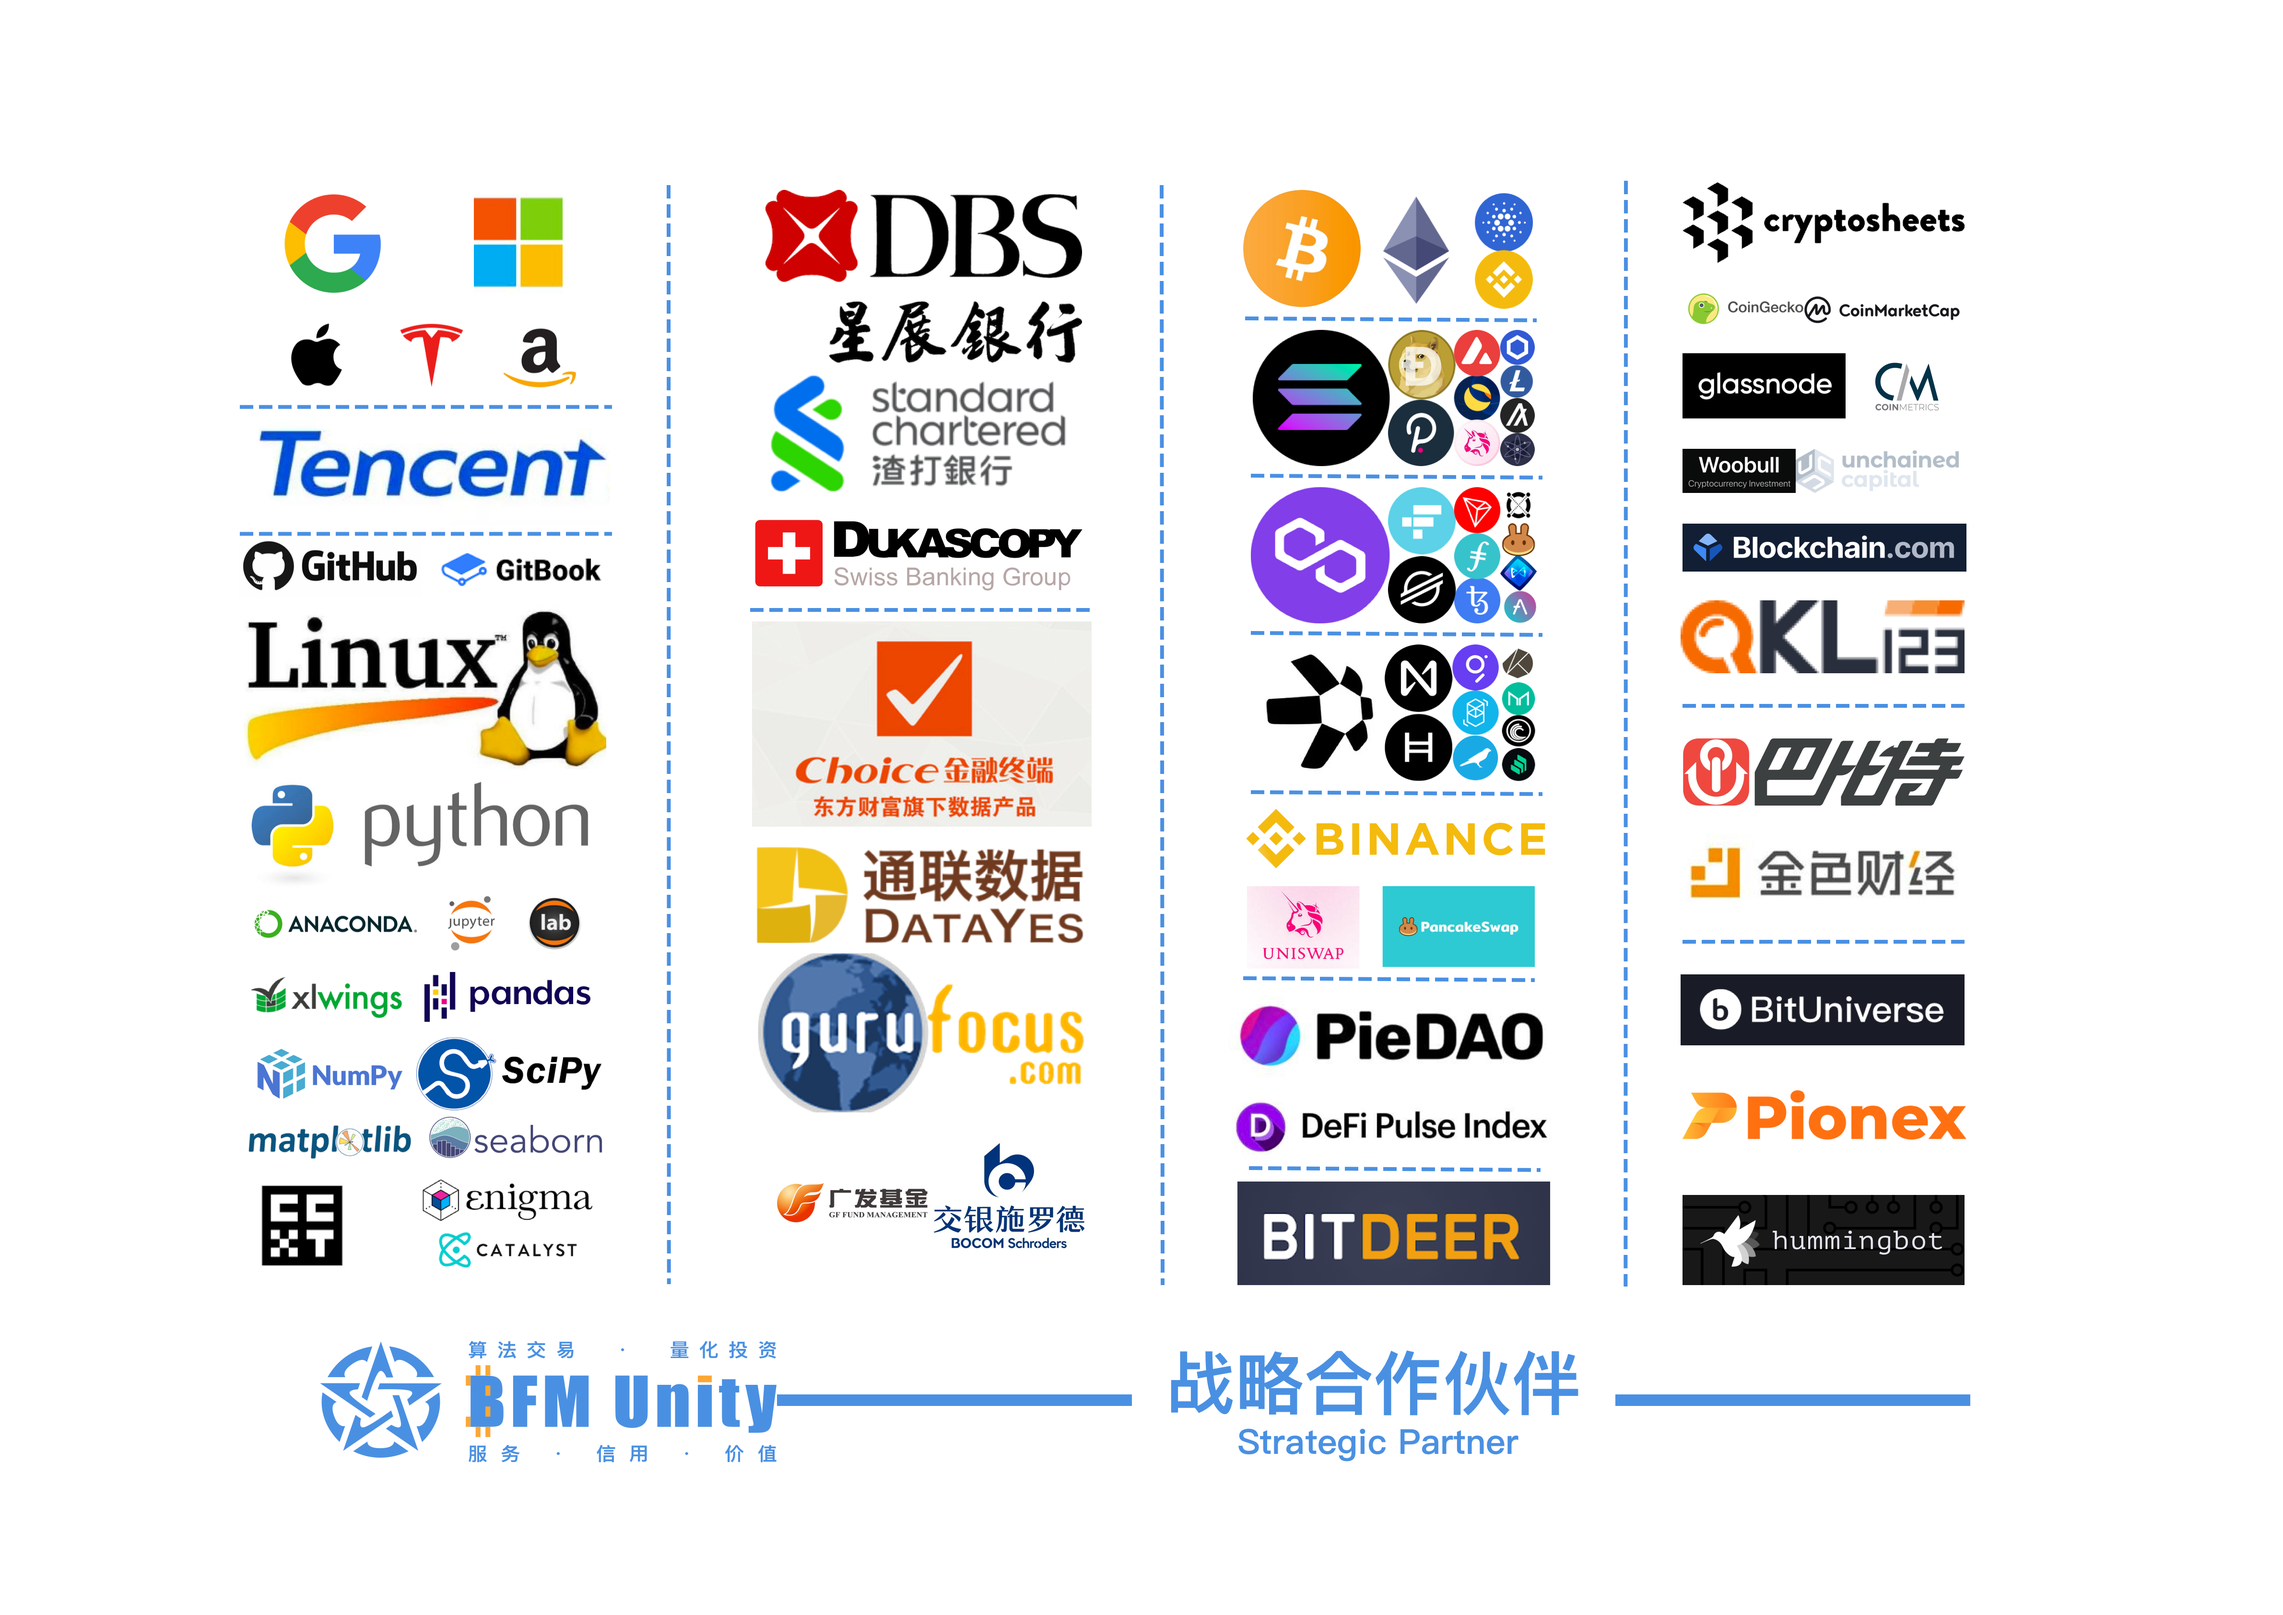
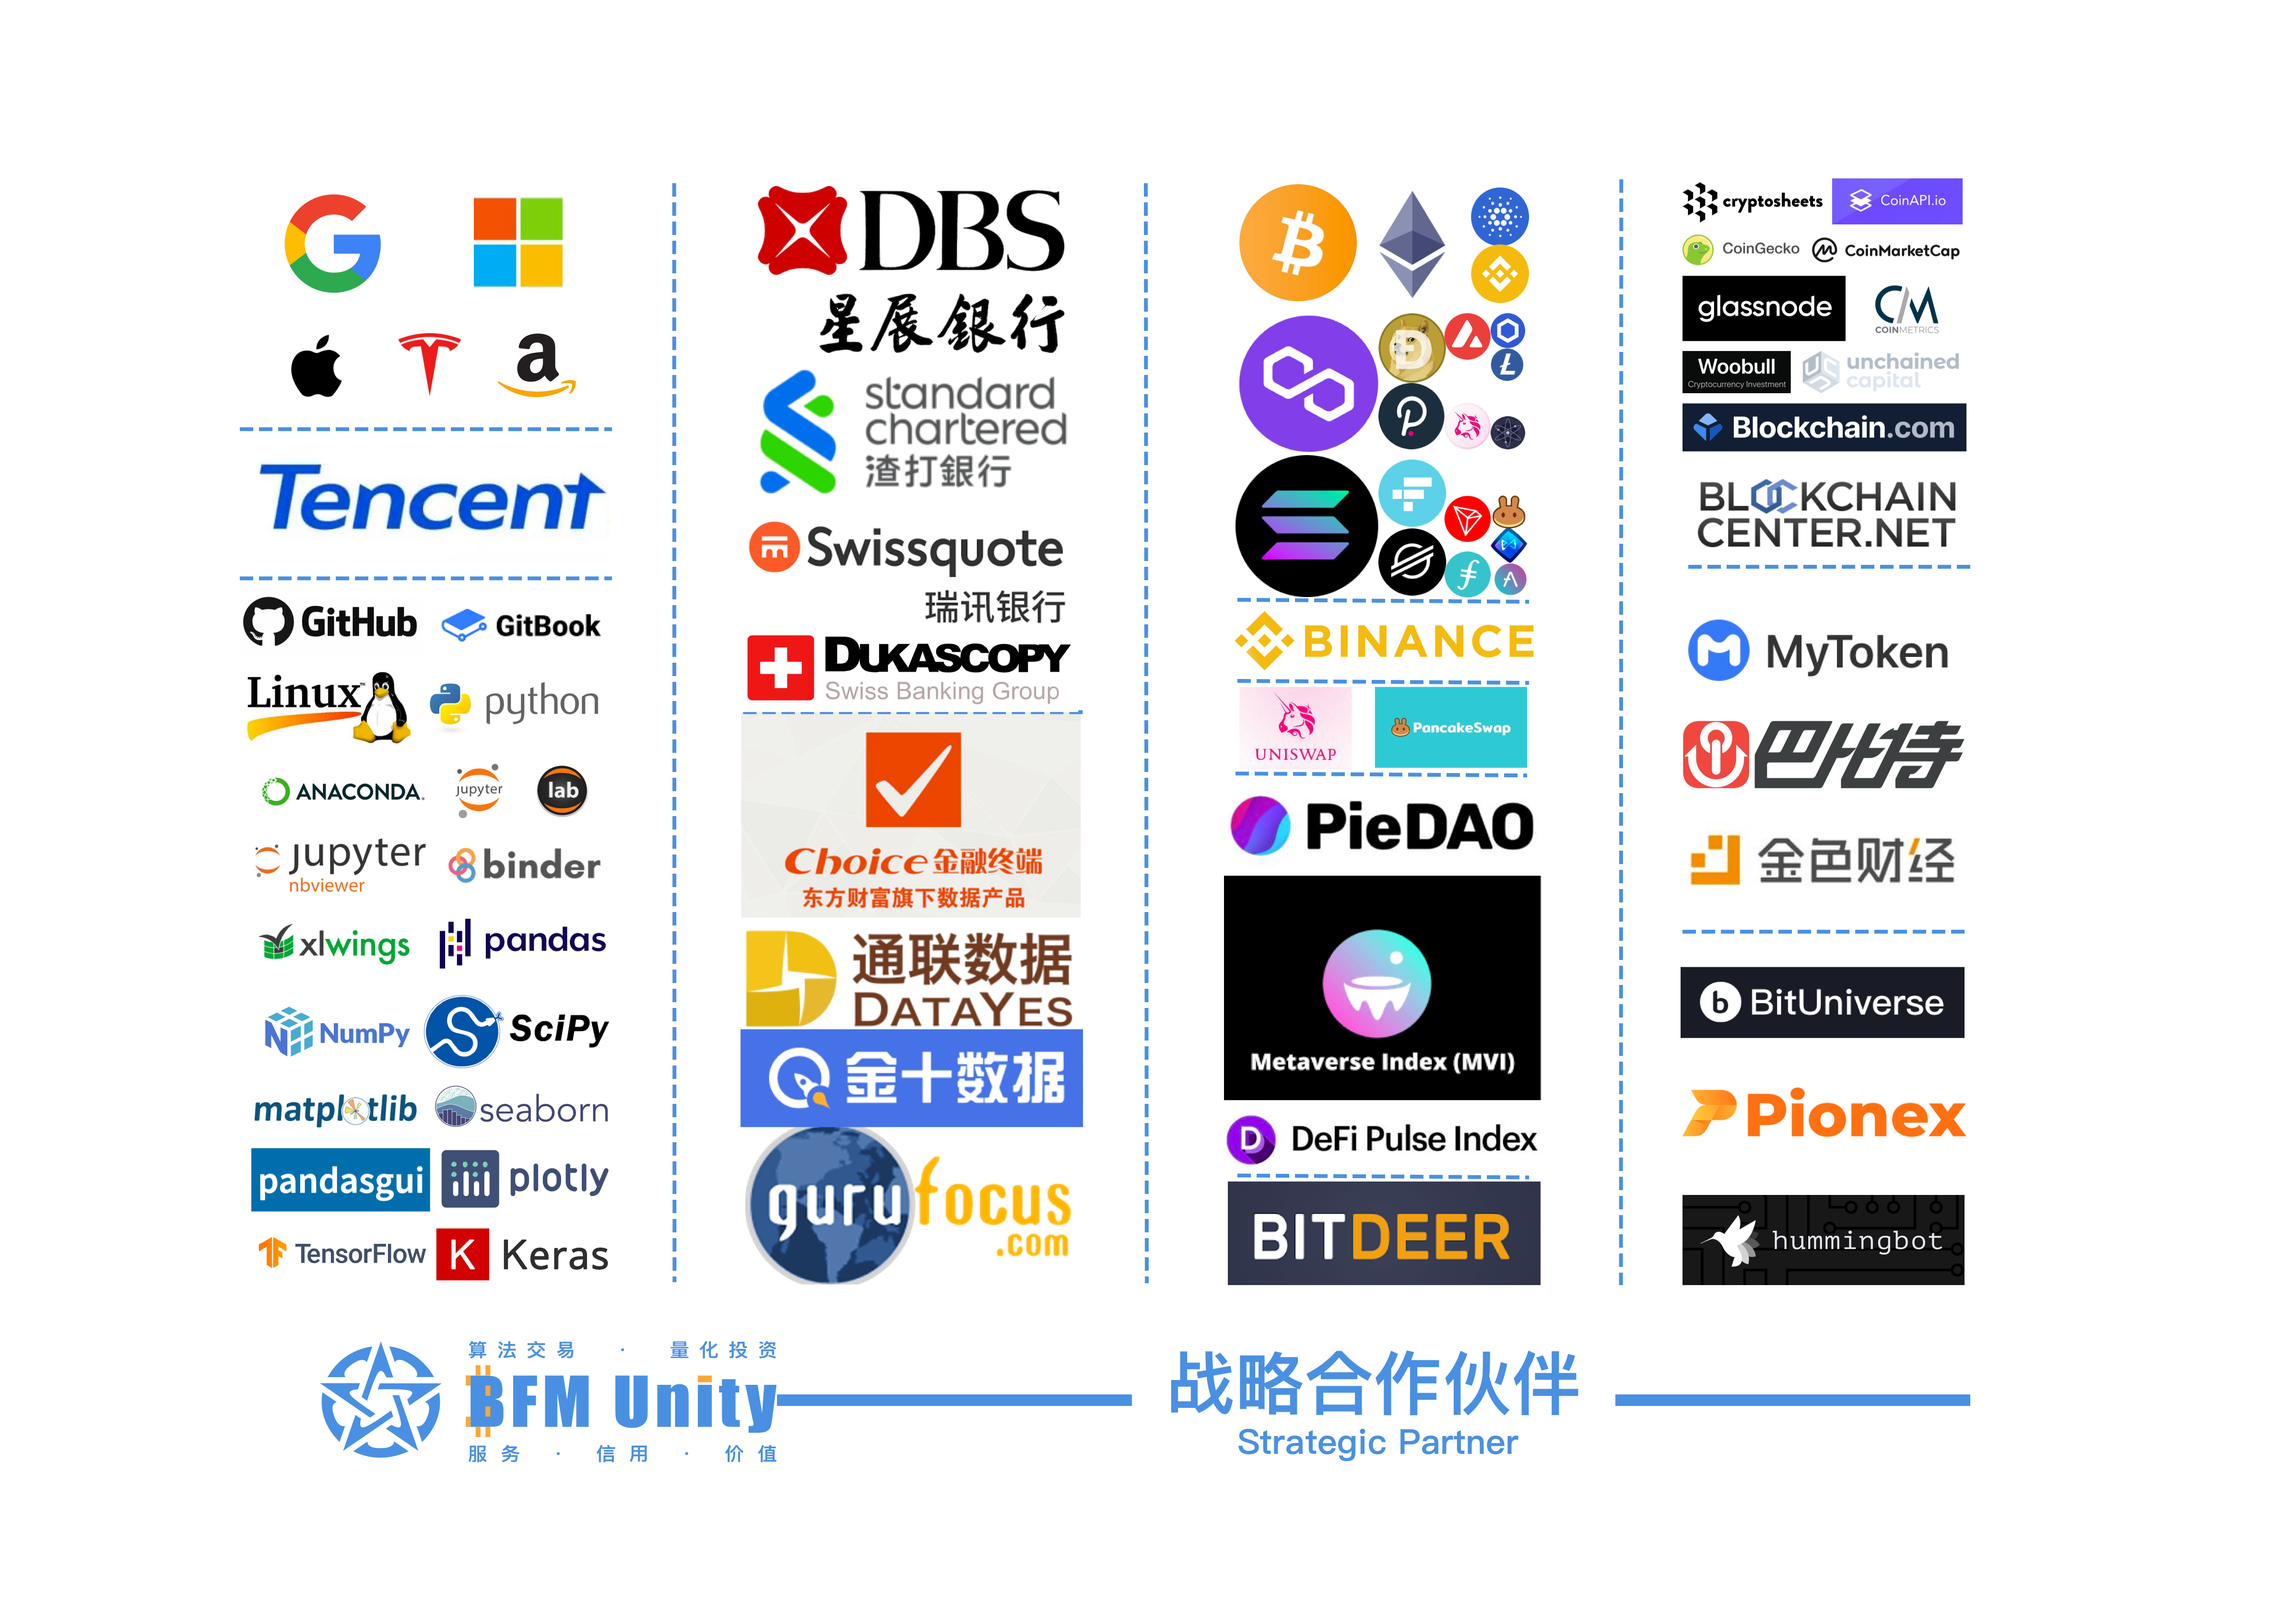
GitBook: [#3665] No subject

diff --git a/bfm-unity-bi-fang-meng-lian-he-ti/lv0-zhu-jian-qiao-yin-dao.md b/bfm-unity-bi-fang-meng-lian-he-ti/lv0-zhu-jian-qiao-yin-dao.md
@@ -100,6 +100,8 @@ NOTE: **This project is in beta. Use at your own risk.**
 
 ## 我们的经合关系 <a href="#zhan-lve-he-zuo-huo-ban" id="zhan-lve-he-zuo-huo-ban"></a>
 
+![](<../.gitbook/assets/BFM Unity 战略合作伙伴 (7).png>)
+
 [全球最大的50家银行在区块链领域的布局](https://cloud.tencent.com/developer/article/1356837)
 
 ![](<../.gitbook/assets/BFM Unity B级友商.png>)
